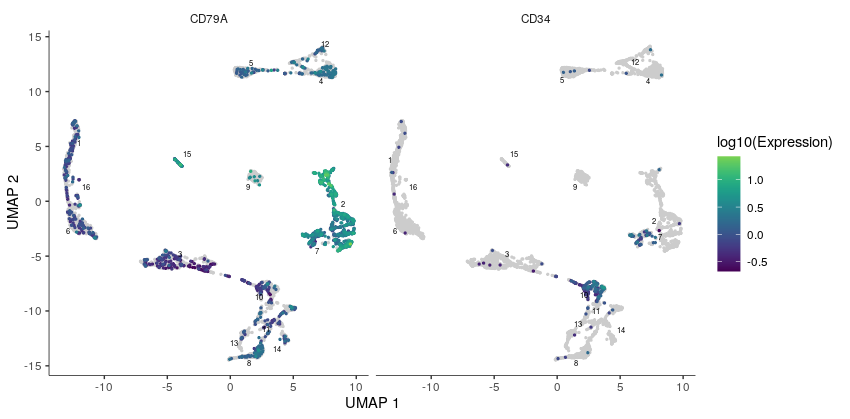
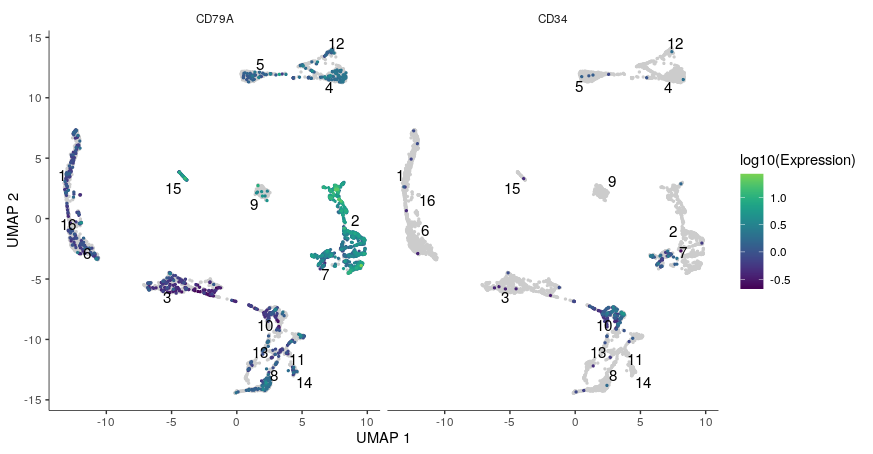
updates monocle3 part

diff --git a/docs/day3/trajectory_analysis.md b/docs/day3/trajectory_analysis.md
@@ -337,8 +337,8 @@ Generate a `monocle3` object (with class `cell_data_set`) from our `Seurat` obje
 ```R
 # get matrix and filter for minimum number of cells and features (the latter is a fix for backward compatibility)
 mat_tmp <- seu_int@assays$RNA@counts
-seu_tmp <- CreateSeuratObject(mat_tmp, min.cells = 3,
-                              min.features = 100)
+seu_tmp <- Seurat::CreateSeuratObject(mat_tmp, min.cells = 3,
+                                      min.features = 100)
 
 feature_names <- as.data.frame(rownames(seu_tmp))
 rownames(feature_names) <- rownames(seu_tmp)
@@ -423,7 +423,7 @@ monocle3::plot_cells(seu_int_monocl)
     ```R
     monocle3::plot_cells(seu_int_monocl, genes = c("CD79A", "CD34"),
                      show_trajectory_graph = FALSE, 
-                     cell_size = 0.7)
+                     cell_size = 0.7, group_label_size = 4)
     ```
 
     Returns:
@@ -432,7 +432,7 @@ monocle3::plot_cells(seu_int_monocl)
      <img src="../../assets/images/umap_bcell_cd34plus.png" width="800"/>
     </figure>
 
-    Cluster 13 has both a high expression of CD79A and CD34. 
+    The left part of cluster 7 has both a high expression of CD79A and CD34. 
 
 
 
